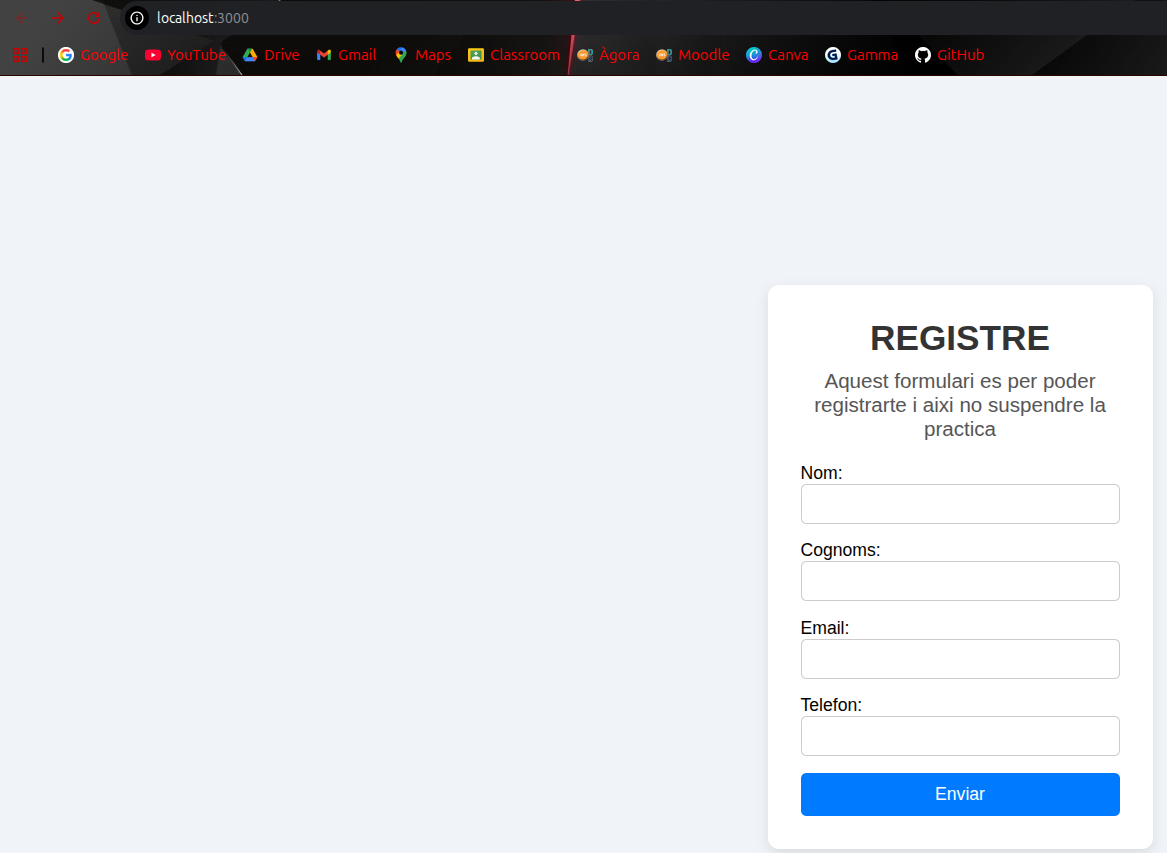
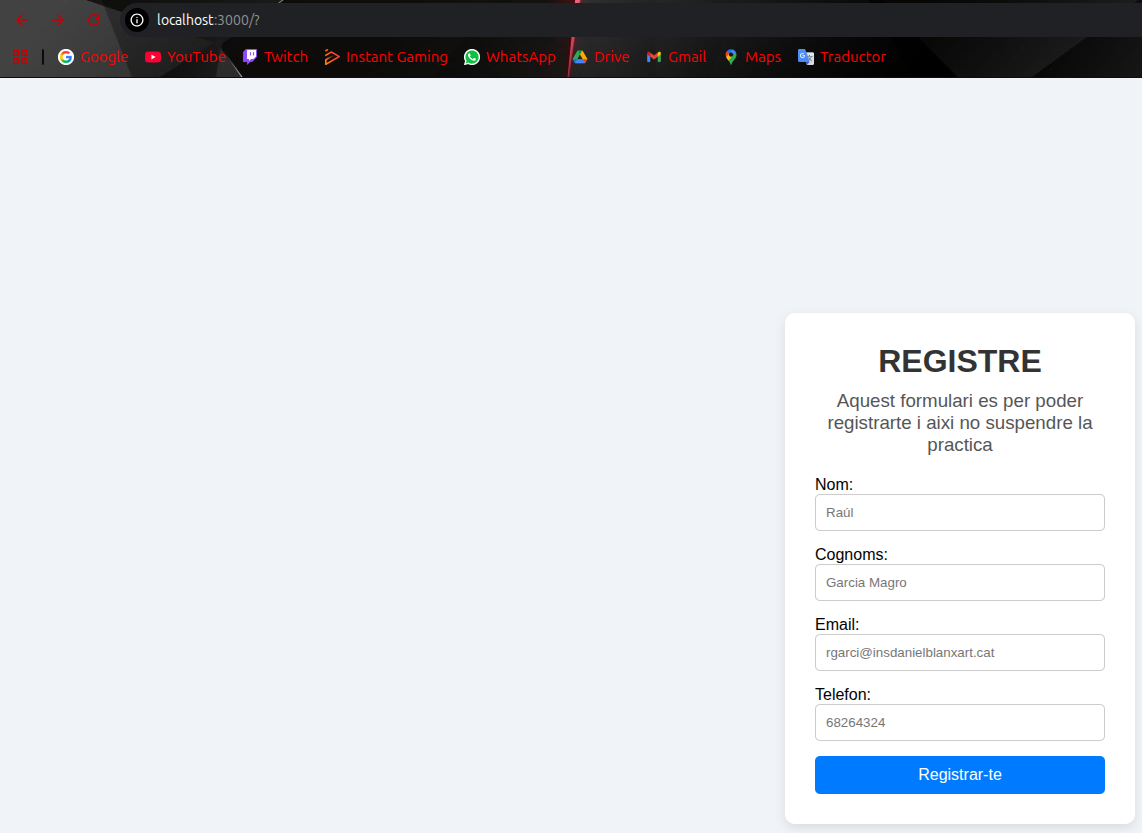
GOD

diff --git a/ENTORN CLIENT/EXERCICI 3/public/index.html b/ENTORN CLIENT/EXERCICI 3/public/index.html
@@ -3,18 +3,20 @@
 <head>
   <meta charset="UTF-8">
   <meta name="viewport" content="width=device-width, initial-scale=1.0">
-  <link rel="stylesheet" href="sytle.css">
+  <link rel="stylesheet" href="./sytle.css">
   <title>EXERCICI 3</title>
 </head>
 <body>
-  <form onsubmit="alert('Formulari de Registre enviat!'); return false;">
-    <h1>REGISTRE</h1> <!--Això es un titol-->
-    <h3>Aquest formulari es per poder registrarte i aixi no suspendre la practica</h3> <!--Aixo es la descripcio amb una lletra mes petita-->
-      Nom: <input type="text" placeholder="Escriu el teu nom:"><br> <!--Aqui faig els inputs per possar el nom, cognoms, emails i el telefon-->
-      Cognoms: <input type="text" placeholder="Escriu els teus cognoms:"><br>
-      Email: <input type="email" placeholder="Escriu el teu email:"><br>
-      Telefon: <input type="tel" placeholder="Escriu el teu telefon:"><br>
-    <button type="submit">Registrarte</button> <!--Aixo es el botó de enviar el formulari-->
+  <form action="/submit" method="POST">
+    <h1>REGISTRE</h1>
+    <h3>Aquest formulari es per poder registrarte i aixi no suspendre la practica</h3>
+
+    Nom: <input type="text" name="nom" placeholder="Raúl" required><br>
+    Cognoms: <input type="text" name="cognoms" placeholder="Garcia Magro" required><br>
+    Email: <input type="email" name="email" placeholder="rgarci@insdanielblanxart.cat" required><br>
+    Telefon: <input type="tel" name="telefon" placeholder="68264324" maxlength="8" required><br>
+
+    <button type="submit">Registrar-te</button>
   </form>
 </body>
 </html>
